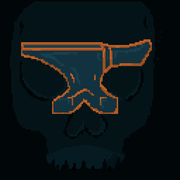
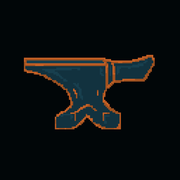
Add files via upload

diff --git a/index.html b/index.html
@@ -43,8 +43,9 @@ button,input,select,textarea{font:inherit;color:inherit}
 .soft{color:var(--inkSoft)}
 .app-header{display:flex;align-items:center;justify-content:space-between;flex-wrap:wrap;gap:12px 20px;padding-block:14px;padding-inline:max(16px,calc((100% - 1160px)/2));border-bottom:1px solid var(--line);background:var(--panel)}
 .app-title{font-family:var(--serif);font-weight:600;font-size:20px;display:flex;align-items:center;gap:10px}
-.app-logo{width:32px;height:32px;image-rendering:pixelated;border-radius:8px;flex:none}
-.gate-logo{display:block;width:96px;height:96px;image-rendering:pixelated;border-radius:22px;margin:0 0 14px}
+.app-logo{width:46.5px;height:26.5px;image-rendering:pixelated;flex:none}
+.gate-logo{display:block;width:186px;height:106px;image-rendering:pixelated;margin:4px auto 16px}
+.gate-head{text-align:center}
 .tabs{display:flex;flex-wrap:wrap;gap:4px;background:var(--panelAlt);padding:4px;border-radius:6px}
 .tab{border:0;background:transparent;padding:7px 11px;font-size:13.5px;color:var(--inkSoft);border-radius:4px;cursor:pointer}
 .tab[aria-current="page"]{background:var(--panel);color:var(--ink);font-weight:600;box-shadow:0 1px 0 var(--line) inset}
@@ -2583,7 +2584,7 @@ function renderGate(){
       </div>`;
   }
   const pk = DATA.fromPackage ? `<p class="soft" style="font-size:12.5px;margin:14px 0 0">Shared copy made ${new Date(DATA.fromPackage).toLocaleString([], {month:'short',day:'numeric',year:'numeric',hour:'numeric',minute:'2-digit'})}. ${DATA.soldiers.length} people on the roster.</p>` : '';
-  return `<div class="gate"><div class="panel">${logoImg('gate-logo')}<h2 style="font-size:26px;margin-bottom:2px">Rusty Anvil</h2><p class="soft" style="margin:0 0 10px;font-size:13.5px">ROTC UCM Skills Trainer</p>${body}${g.step==='choose'?pk:''}</div></div>`;
+  return `<div class="gate"><div class="panel"><div class="gate-head">${logoImg('gate-logo')}<h2 style="font-size:26px;margin-bottom:2px">Rusty Anvil</h2><p class="soft" style="margin:0 0 10px;font-size:13.5px">ROTC UCM Skills Trainer</p></div>${body}${g.step==='choose'?pk:''}</div></div>`;
 }
 function wireGate(){
   const S=DATA.settings, g=STATE.gate;
@@ -4636,8 +4637,8 @@ function renderMyTimes(c, s){
 /* ============================== app frame: header, phone tab bar, More menu ============================== */
 // Desktop: tabs across the top. Phones: up to 5 buttons along the bottom, the rest under More.
 const SHARE_URL = 'https://thatoneguy257.github.io/RustyAnvil/';
[1 lines of base64/hex data omitted]
-const logoImg = (cls='app-logo') => `<img class="${cls}" src="${LOGO_SRC}" alt="" width="128" height="128">`;
[1 lines of base64/hex data omitted]
+const logoImg = (cls='app-logo') => `<img class="${cls}" src="${LOGO_SRC}" alt="" width="93" height="53">`;
 const ICON_PATHS = {
   dash:'<path d="M4 4h7v7H4zM13 4h7v4h-7zM13 10h7v10h-7zM4 13h7v7H4z"/>',
   rank:'<path d="M8 4h8v4a4 4 0 0 1-8 0zM8 6H5a3 3 0 0 0 3 4M16 6h3a3 3 0 0 1-3 4M12 12v4M8 20h8M9 20v-2h6v2"/>',

diff --git a/sw.js b/sw.js
@@ -1,5 +1,5 @@
 // Rusty Anvil service worker: works offline, picks up updates when there's signal.
-const CACHE='rusty-anvil-77c370e5d0';
+const CACHE='rusty-anvil-36d6b9a54a';
 const SHELL=['./','index.html','manifest.webmanifest','icon-180.png','icon-192.png','icon-512.png','maskable-512.png','favicon-64.png'];
 self.addEventListener('install',e=>{e.waitUntil(caches.open(CACHE).then(c=>c.addAll(SHELL)).then(()=>self.skipWaiting()));});
 self.addEventListener('activate',e=>{e.waitUntil(caches.keys().then(ks=>Promise.all(ks.filter(k=>k.startsWith('rusty-anvil-')&&k!==CACHE).map(k=>caches.delete(k)))).then(()=>self.clients.claim()));});
